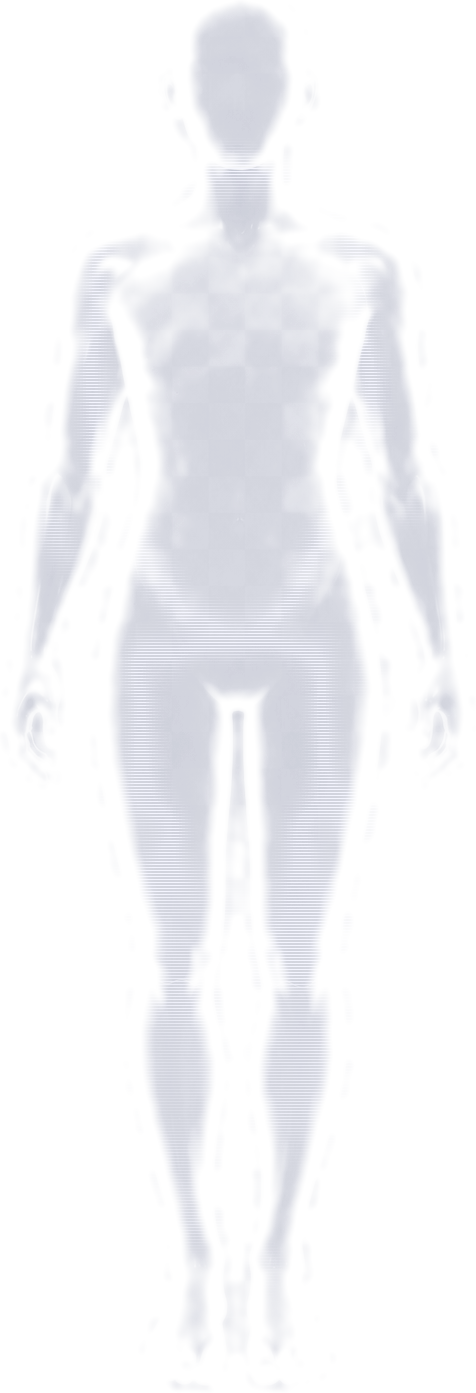
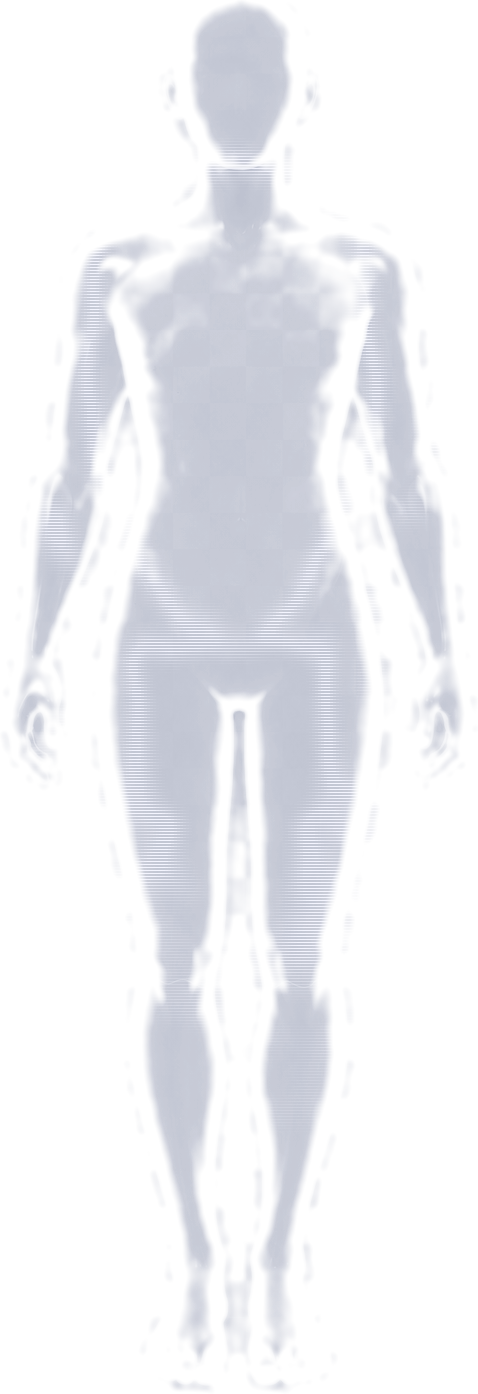
feat(alterTab): B5 — 器と液体の役割分離 / ヘッダー削除 / 推移予測の改名+データ点 / 心臓を左上へ
CEO B5 指示対応:
- ①心臓位置を胸の左上へ（xPct 45.5 / yPct 18.5）
- ②「今日のリソース推移予測」→「今日の推移予測」+ 全系列に時間ごとのデータ点 ・（白縁ドット）
- ③ヘッダー（Alter / ライブ / あなたの現実を制御する / 右の設定ボタン）を削除
- ④液体の質感: ベース人体 = 器（alpha 3.6 で芯出し・blur 減・ブルーグレー陰影保持・drop-shadow 霧を除去・
  ガラス光沢は blur なしの斜めシーンに変更）。背面プレートをラベンダー〜ブルーグレーに深化。
  body 液体 = 上淡シアン→下濃青の液体グラデ + 水面ライン + 直下ハイライト帯（blur なし）。
  brain 液体 = 上淡ラベンダー紫→下濃青紫 + 白い水面ライン + 光の縁 + 内側グロー。
  星雲 glow は背面に減光（0.3-0.45）

tsc 55 = baseline

diff --git a/app/(culcept)/plan/components/alter/HumanBatteryFigure.tsx b/app/(culcept)/plan/components/alter/HumanBatteryFigure.tsx
@@ -36,7 +36,7 @@ export interface HumanBatteryFigureProps {
 const HEAD_TOP_PCT = 1;
 const NECK_PCT = 12; // 頭部容器の下端（顎）
 const BODY_TOP_PCT = 16; // 体ゾーンの上端（肩の手前）
-const HEART_CENTER = { xPct: 50, yPct: 20.5 }; // 胸の中心（肩のすぐ下）
+const HEART_CENTER = { xPct: 45.5, yPct: 18.5 }; // 胸の左上（CEO B5 指示）
 const FEET_PCT = 99;
 
 const bodyMaskStyle: React.CSSProperties = {
@@ -102,46 +102,45 @@ export function HumanBatteryFigure({
       role="img"
       aria-label="あなたのバッテリー（3 系統の見立て）"
     >
-      {/* 1. glow（星雲・背面）+ halo plate（人体を白背景から浮かせる色面） */}
+      {/* 1. 背面プレート（薄いラベンダー〜ブルーグレー = コントラスト確保。霧の glow ではなく面） */}
       {!allUnknown && (
         <>
           <div
-            className="pointer-events-none absolute left-1/2 top-1/2 h-[108%] w-[190%] -translate-x-1/2 -translate-y-1/2"
+            className="pointer-events-none absolute left-1/2 top-1/2 h-[104%] w-[185%] -translate-x-1/2 -translate-y-1/2"
             style={{
               background:
-                "radial-gradient(ellipse 52% 46% at 50% 45%, rgba(196,181,253,0.55), rgba(199,210,254,0.38) 55%, rgba(224,231,255,0) 78%)",
+                "radial-gradient(ellipse 50% 47% at 50% 45%, rgba(176,188,230,0.62), rgba(186,196,234,0.4) 58%, rgba(203,213,245,0) 80%)",
             }}
           />
           <motion.img
             src={glowImg.src}
             alt=""
             aria-hidden="true"
-            className="pointer-events-none absolute left-1/2 top-1/2 h-[108%] w-auto max-w-none -translate-x-1/2 -translate-y-1/2 select-none"
-            animate={{ opacity: [0.5, 0.75, 0.5] }}
+            className="pointer-events-none absolute left-1/2 top-1/2 h-[106%] w-auto max-w-none -translate-x-1/2 -translate-y-1/2 select-none"
+            animate={{ opacity: [0.3, 0.45, 0.3] }}
             transition={{ duration: 7, repeat: Infinity, ease: "easeInOut" }}
           />
         </>
       )}
 
-      {/* 2. base human body（実透過アセット。二重描画 + 淡い縁光で存在感を出す） */}
+      {/* 2. base human body（器。芯のある半透明 — blur なし・色は液体レイヤーのみが持つ） */}
       <img
         src={bodyImg.src}
         alt=""
         aria-hidden="true"
         className={`absolute inset-0 h-full w-full select-none ${allUnknown ? "opacity-35 saturate-0" : ""}`}
-        style={allUnknown ? undefined : { filter: "drop-shadow(0 0 7px rgba(165,180,252,0.5))" }}
         draggable={false}
       />
       {!allUnknown && (
         <>
-          <img src={bodyImg.src} alt="" aria-hidden="true" className="absolute inset-0 h-full w-full select-none opacity-80" draggable={false} />
-          {/* ガラスの体積感（mask 内側のクールトーン・縁ほど濃い） */}
+          <img src={bodyImg.src} alt="" aria-hidden="true" className="absolute inset-0 h-full w-full select-none opacity-85" draggable={false} />
+          {/* ガラス光沢（上左からの薄いシーン。blur なし） */}
           <div
             className="absolute inset-0"
             style={{
               ...bodyMaskStyle,
               background:
-                "radial-gradient(ellipse 42% 38% at 50% 30%, rgba(255,255,255,0) 30%, rgba(199,210,254,0.4) 72%, rgba(165,180,252,0.62) 100%)",
+                "linear-gradient(112deg, rgba(255,255,255,0.4) 0%, rgba(255,255,255,0.12) 14%, rgba(255,255,255,0) 26%)",
             }}
           />
         </>
@@ -164,22 +163,26 @@ export function HumanBatteryFigure({
                   height: `${bodyLiquidHeightPct + (100 - FEET_PCT)}%`,
                 }}
               >
+                {/* 液体本体: 上淡（シアン）→ 下濃（青）。発光でなく液体（blur なし） */}
                 <div
                   className="absolute inset-0"
                   style={{
                     background:
-                      "linear-gradient(to bottom, rgba(147,197,253,0.92), rgba(96,165,250,0.88) 45%, rgba(34,211,238,0.92))",
-                    filter: "blur(0.5px)",
+                      "linear-gradient(to bottom, rgba(125,211,252,0.88) 0%, rgba(56,189,248,0.92) 22%, rgba(37,99,235,0.95) 70%, rgba(29,78,216,0.97) 100%)",
                   }}
                 />
+                {/* 水面: 白いライン + 直下の明るい帯（水面近くのハイライト） */}
                 <div
                   className="absolute -top-px left-[6%] h-[2.5px] w-[88%] rounded-full"
-                  style={{ background: "linear-gradient(to right, rgba(255,255,255,0), rgba(255,255,255,0.9) 28%, rgba(255,255,255,0.9) 72%, rgba(255,255,255,0))" }}
+                  style={{ background: "linear-gradient(to right, rgba(255,255,255,0), rgba(255,255,255,0.95) 28%, rgba(255,255,255,0.95) 72%, rgba(255,255,255,0))" }}
+                />
+                <div
+                  className="absolute left-0 top-[2px] h-[7px] w-full"
+                  style={{ background: "linear-gradient(to bottom, rgba(186,230,253,0.75), rgba(186,230,253,0))" }}
                 />
                 <SurfaceWave />
-                {/* 内部ハイライト（体積感） */}
-                <div className="absolute left-[28%] top-[14%] h-10 w-9 rounded-full bg-white/25 blur-md" />
-                <div className="absolute right-[30%] top-[42%] h-8 w-7 rounded-full bg-white/20 blur-md" />
+                {/* 内部ハイライト（小さめ・控えめ。霧化させない） */}
+                <div className="absolute left-[30%] top-[16%] h-7 w-5 rounded-full bg-white/20 blur-[3px]" />
               </div>
             </motion.div>
           )}
@@ -196,32 +199,27 @@ export function HumanBatteryFigure({
                 className="absolute inset-x-0"
                 style={{ top: `${NECK_PCT - brainLiquidHeightPct}%`, height: `${brainLiquidHeightPct}%` }}
               >
+                {/* 液体本体: 上淡（ラベンダー紫）→ 下濃（青紫）。blur なしの液体グラデ */}
                 <div
                   className="absolute inset-0"
                   style={{
-                    background: "linear-gradient(to bottom, rgba(139,92,246,0.96), rgba(79,70,229,0.96))",
-                    filter: "blur(0.4px)",
+                    background:
+                      "linear-gradient(to bottom, rgba(167,139,250,0.92) 0%, rgba(124,58,237,0.96) 38%, rgba(91,33,182,0.98) 100%)",
                   }}
                 />
-                {/* 水面の白いライン（「満たされている」を一瞬で読ませる） */}
+                {/* 水面: 白いライン + 直下の明るいラベンダー帯（光の縁） */}
                 <div
                   className="absolute -top-px left-[8%] h-[2.5px] w-[84%] rounded-full"
-                  style={{ background: "linear-gradient(to right, rgba(255,255,255,0), rgba(255,255,255,0.95) 30%, rgba(255,255,255,0.95) 70%, rgba(255,255,255,0))" }}
+                  style={{ background: "linear-gradient(to right, rgba(255,255,255,0), rgba(255,255,255,1) 30%, rgba(255,255,255,1) 70%, rgba(255,255,255,0))" }}
+                />
+                <div
+                  className="absolute left-0 top-[2px] h-[6px] w-full"
+                  style={{ background: "linear-gradient(to bottom, rgba(221,214,254,0.8), rgba(221,214,254,0))" }}
                 />
                 <SurfaceWave light />
+                {/* 水面近くの内側グロー（器との差を出す） */}
+                <div className="absolute left-[34%] top-[12%] h-3 w-[32%] rounded-full bg-violet-200/45 blur-[2px]" />
               </div>
-              {/* 脳の淡い発光 */}
-              <div
-                className="absolute rounded-full"
-                style={{
-                  left: "41%",
-                  width: "18%",
-                  top: `${HEAD_TOP_PCT + 1}%`,
-                  height: `${headZoneHeightPct * 0.42}%`,
-                  background: "radial-gradient(circle, rgba(221,214,254,0.9), rgba(196,181,253,0))",
-                  opacity: 0.35 + 0.5 * clamp(brainFill),
-                }}
-              />
             </motion.div>
           )}
 

diff --git a/app/(culcept)/plan/components/alter/ResourceTrendChart.tsx b/app/(culcept)/plan/components/alter/ResourceTrendChart.tsx
@@ -63,11 +63,11 @@ export function ResourceTrendChart({ trend }: ResourceTrendChartProps) {
 
   return (
     <section
-      aria-label="今日のリソース推移予測"
+      aria-label="今日の推移予測"
       className="rounded-3xl border border-white bg-gradient-to-b from-white to-indigo-50/40 p-3 shadow-[0_6px_18px_rgba(99,102,241,0.10)] backdrop-blur-sm"
     >
       <div className="flex flex-wrap items-center gap-x-2 gap-y-1">
-        <h3 className="text-[12px] font-bold text-slate-700">今日のリソース推移予測</h3>
+        <h3 className="text-[12px] font-bold text-slate-700">今日の推移予測</h3>
         <div className="ml-auto flex items-center gap-2 text-[8.5px] text-slate-500">
           {legend.map((l) => (
             <span key={l.label} className="flex items-center gap-1">
@@ -108,10 +108,19 @@ export function ResourceTrendChart({ trend }: ResourceTrendChartProps) {
           </text>
         </g>
 
-        {/* ライン */}
+        {/* ライン + 時間ごとのデータ点 ・（over.png 準拠） */}
         <path d={linePath(load)} fill="none" stroke="#fb923c" strokeWidth={1.6} strokeLinecap="round" strokeLinejoin="round" />
         <path d={linePath(focus)} fill="none" stroke="#8b5cf6" strokeWidth={1.6} strokeLinecap="round" strokeLinejoin="round" />
         <path d={linePath(energy)} fill="none" stroke="#3b82f6" strokeWidth={1.8} strokeLinecap="round" strokeLinejoin="round" />
+        {load.map((p) => (
+          <circle key={`l-${p.t}`} cx={xOf(p.t)} cy={yOf(p.v)} r={1.7} fill="#fb923c" stroke="#fff" strokeWidth={0.6} />
+        ))}
+        {focus.map((p) => (
+          <circle key={`f-${p.t}`} cx={xOf(p.t)} cy={yOf(p.v)} r={1.7} fill="#8b5cf6" stroke="#fff" strokeWidth={0.6} />
+        ))}
+        {energy.map((p) => (
+          <circle key={`e-${p.t}`} cx={xOf(p.t)} cy={yOf(p.v)} r={1.9} fill="#3b82f6" stroke="#fff" strokeWidth={0.6} />
+        ))}
 
         {/* x ラベル */}
         {X_TICKS.map((t) => (

diff --git a/app/(culcept)/plan/components/alter/AlterTabBody.tsx b/app/(culcept)/plan/components/alter/AlterTabBody.tsx
@@ -22,7 +22,6 @@ import { AnimatePresence, motion } from "framer-motion";
 import type { AlterBatteryViewModel } from "@/lib/plan/dayState/dayStateTypes";
 import { AlterChatPreview, type AlterChatTurn } from "./AlterChatPreview";
 import { AlterCtaRow } from "./AlterCtaRow";
-import { AlterHeader } from "./AlterHeader";
 import { AlterInputBar } from "./AlterInputBar";
 import { AlterQuickReplies } from "./AlterQuickReplies";
 import { HumanBatteryCard } from "./HumanBatteryCard";
@@ -50,7 +49,6 @@ export interface AlterTabBodyProps {
   onCompose?: () => void;
   onViewAdjustments?: () => void;
   onSend?: (message: string) => void;
-  onSettingsTap?: () => void;
 }
 
 type SheetTarget = { kind: "correction"; target: CorrectionTarget } | { kind: "sleep" };
@@ -116,7 +114,6 @@ export function AlterTabBody({
   onCompose,
   onViewAdjustments,
   onSend,
-  onSettingsTap,
 }: AlterTabBodyProps) {
   const vm = screen.base;
   const [sheet, setSheet] = useState<SheetTarget | null>(null);
@@ -165,9 +162,8 @@ export function AlterTabBody({
 
   return (
     <div className="relative min-h-screen">
-      <AlterHeader onSettingsTap={onSettingsTap} />
-
-      <div className="mx-auto max-w-3xl space-y-2 px-3 pb-24 pt-2">
+      {/* ヘッダー（Alter/ライブ/サブコピー/設定）は CEO B5 指示で削除 */}
+      <div className="mx-auto max-w-3xl space-y-2 px-3 pb-24 pt-3">
         {/* 上段 2 カラム（over.png 構図）: あなたのバッテリー | 状態の背景 4 セル */}
         <div className="grid grid-cols-[1.62fr_1fr] items-stretch gap-1.5">
           <HumanBatteryCard